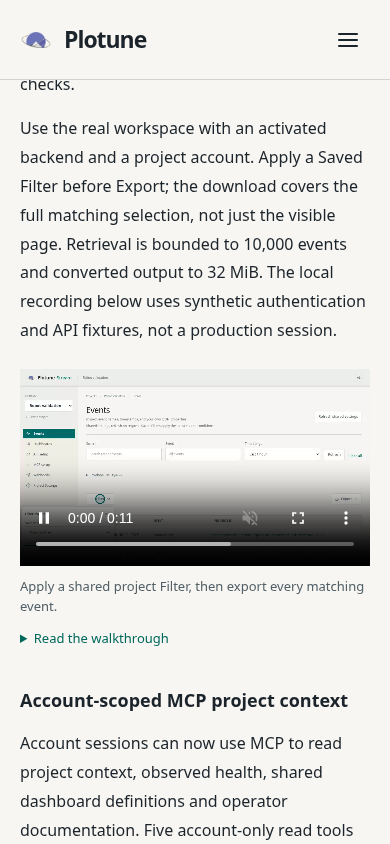
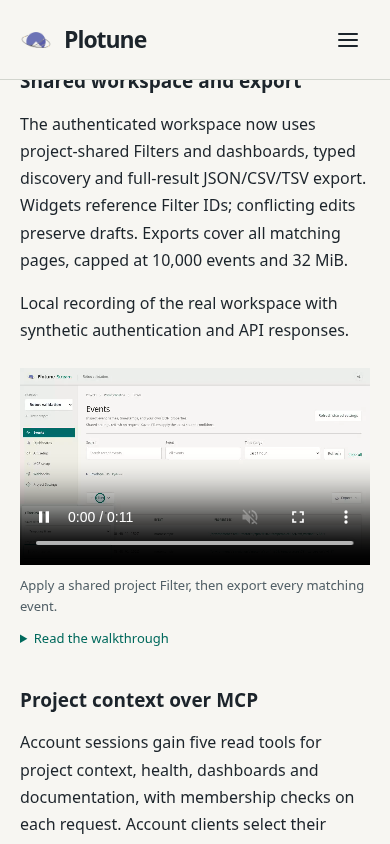
Refine weekly notes with concise highlights and visuals

diff --git a/src/changelog/Changelog.css b/src/changelog/Changelog.css
@@ -30,3 +30,26 @@
 @media(max-width:700px) { .changelog-page { padding-top:100px; } .changelog-layout { display:flex; flex-direction:column; gap:24px; } .changelog-sidebar { position:static; width:100%; } .changelog-sidebar nav { margin:0; padding:0; } .changelog-sidebar nav a { min-height:44px; } .changelog-sidebar span { display:inline; margin-left:12px; } .changelog-sidebar .changelog-brand { margin:0; } .changelog-contents { order:0; width:100%; font-size:12px; } .changelog-main { order:1; min-width:0; width:100%; } .changelog-head h1 { font-size:28px; } }
 
 .changelog-article h4 { font-size:18px; line-height:1.45; margin:26px 0 12px; font-weight:600; }
+
+/* Release-note rhythm: short entries, scannable highlights and useful visuals. */
+.changelog-article { line-height:1.7; }
+.changelog-article h2 { border-top:1px solid var(--line); padding-top:26px; margin-top:34px; }
+.changelog-article h3 { font-size:19px; line-height:1.4; margin:26px 0 10px; font-weight:600; scroll-margin-top:110px; }
+.changelog-article > p:first-child { font-size:13px; color:#526067; }
+.changelog-article #highlights { border:0; margin-top:24px; padding-top:0; font-size:22px; }
+.changelog-article #highlights + ul { padding-left:20px; }
+.changelog-article #highlights + ul li { margin:10px 0; }
+.changelog-article #highlights + ul a { font-weight:600; }
+.changelog-diagram { border:1px solid var(--line); background:#eff2ec; padding:22px; margin:24px 0; }
+.changelog-diagram .changelog-diagram-title { margin:0 0 20px; font-size:15px; font-weight:600; }
+.changelog-diagram-flow { display:grid; grid-template-columns:120px 24px minmax(0,1fr); gap:14px; align-items:center; }
+.changelog-diagram-source { border:1px solid #8aa59a; border-top:3px solid var(--teal); padding:18px 12px; background:var(--paper); font-size:14px; text-align:center; }
+.changelog-diagram-arrow { text-align:center; color:#00695c; font-size:22px; }
+.changelog-diagram-flow ul { list-style:none; padding:0; margin:0; display:grid; gap:12px; }
+.changelog-diagram-flow li { background:var(--paper); border-left:2px solid #8aa59a; padding:12px 16px; line-height:1.5; }
+.changelog-diagram-flow strong,.changelog-diagram-flow span,.changelog-diagram-flow small { display:block; }
+.changelog-diagram-flow strong { font-size:13px; }
+.changelog-diagram-flow li span { color:#00695c; font-size:14px; margin:4px 0; }
+.changelog-diagram-flow small { color:#526067; font-size:12px; }
+.changelog-diagram figcaption { color:#526067; font-size:12px; line-height:1.6; margin-top:16px; }
+@media(max-width:700px) { .changelog-diagram { padding:16px; } .changelog-diagram-flow { grid-template-columns:1fr; gap:8px; } .changelog-diagram-source { padding:12px; } .changelog-diagram-arrow { transform:rotate(90deg); } .changelog-diagram-flow ul { gap:10px; } }

diff --git a/src/changelog/Changelog.jsx b/src/changelog/Changelog.jsx
@@ -1,9 +1,10 @@
-import React, {useEffect, useState} from 'react';
+import React, {useEffect, useMemo, useState} from 'react';
 import {Link, useParams} from 'react-router-dom';
 import {Helmet} from 'react-helmet-async';
 import Seo from '../components/Seo';
 import {editions} from './catalog';
 import ChangelogMedia from './ChangelogMedia';
+import ChangelogDiagram from './ChangelogDiagram';
 import './Changelog.css';
 
 export const weekLabel = date=>new Date(`${date}T12:00:00Z`).toLocaleDateString('en-GB',{day:'numeric',month:'long',year:'numeric',timeZone:'UTC'});
@@ -17,14 +18,18 @@ export default function Changelog() {
     if (edition) Promise.resolve().then(()=>edition.load()).then(m=>{if(active)setContent(()=>m.default);}).catch(()=>{if(active)setError(true);});
     return ()=>{active=false;};
   },[edition,attempt]);
-  const components = {
+  const components = useMemo(()=>({
     h2:({children,...props})=><h2 id={headingId(children)} {...props}>{children}</h2>,
+    h3:({children,...props})=><h3 id={headingId(children)} {...props}>{children}</h3>,
+    h4:({children,...props})=><h4 id={headingId(children)} {...props}>{children}</h4>,
     p:({children,...props})=>{
+      const diagram=typeof children==='string' && /^:::diagram ([a-z0-9-]+)$/.exec(children);
+      if(diagram)return <ChangelogDiagram id={diagram[1]}/>;
       const match=typeof children==='string' && /^:::media ([a-z0-9-]+)$/.exec(children);
       const media=match && edition?.media.find(m=>m.id===match[1]);
       return media ? <ChangelogMedia media={media}/> : <p {...props}>{children}</p>;
     },
-  };
+  }),[edition]);
   const title = edition?.title || (slug ? 'Edition not found' : 'Changelog');
   return <main className="changelog-page design-container">
     <Seo title={`${title} | Plotune`} description={edition?.summary || 'Technical release notes for Plotune Nexus, Cloud and Stream.'} path={slug && edition ? `/changelog/${slug}` : '/changelog'} />

diff --git a/src/changelog/Changelog.test.jsx b/src/changelog/Changelog.test.jsx
@@ -19,3 +19,19 @@ test('technical sections have contents anchors and reviewed media render in cont
  expect(figure.nextElementSibling.textContent).toBe('Describe the next step.');
  expect(container.textContent).not.toContain(':::media');
 });
+
+test('feature anchors and a reviewed static diagram remain readable without video',async()=>{
+ mockLoad.mockResolvedValue({default:({components})=>{const H=components.h3,P=components.p;return <><H>Compatible release downloads</H><P>{':::diagram release-formats'}</P></>;}});
+ await render();expect(container.querySelector('h3').id).toBe('compatible-release-downloads');
+ const diagram=container.querySelector('.changelog-diagram');expect(diagram).toBeTruthy();
+ expect(diagram.querySelectorAll('li')).toHaveLength(2);
+ expect(diagram.textContent).toContain('Compatibility images');
+ expect(document.getElementById(diagram.getAttribute('aria-labelledby'))).toBeTruthy();
+ expect(diagram.querySelector('video')).toBeNull();
+});
+
+test('rerendering navigation preserves inline media nodes',async()=>{
+ mockLoad.mockResolvedValue({default:({components})=>{const P=components.p;return <P>{':::media selection'}</P>;}});
+ await render();const figure=container.querySelector('figure');
+ await render();expect(container.querySelector('figure')).toBe(figure);
+});

diff --git a/src/changelog/ChangelogDiagram.jsx b/src/changelog/ChangelogDiagram.jsx
@@ -1,0 +1,19 @@
+import React, {useId} from 'react';
+import diagrams from './diagrams.json';
+
+export default function ChangelogDiagram({id}) {
+  const label=useId();
+  const diagram=diagrams[id];
+  if(!diagram)return null;
+  return <figure className="changelog-diagram" aria-labelledby={label}>
+    <p id={label} className="changelog-diagram-title">{diagram.title}</p>
+    <div className="changelog-diagram-flow">
+      <div className="changelog-diagram-source">{diagram.source}</div>
+      <span className="changelog-diagram-arrow" aria-hidden="true">→</span>
+      <ul>{diagram.branches.map(branch=><li key={branch.title}>
+        <strong>{branch.title}</strong><span>{branch.detail}</span><small>{branch.outcome}</small>
+      </li>)}</ul>
+    </div>
+    <figcaption>{diagram.caption}</figcaption>
+  </figure>;
+}

diff --git a/docs/changelog-qa/README.md b/docs/changelog-qa/README.md
@@ -9,14 +9,14 @@ per-PR include/omit ledger remain private, ignored scratch data during generatio
 | Product | Public selection | Media decision |
 | --- | --- | --- |
 | Nexus | Managed agents and runtime reliability; actionable connection errors; note/conversation formatting; OAuth renewal; complete updates and recovery | Text: describe changed behavior, trust and compatibility precisely. No unrelated footage. |
-| Cloud | Compatible complete-release negotiation for old and new Nexus updaters | Text: publishing order and transport compatibility are clearer without a staged UI. |
+| Cloud | Compatible complete-release negotiation for old and new Nexus updaters | Static diagram: the complete-release and compatibility-image paths, with the required publishing order in the entry. |
 | Stream | Authenticated workspace and shared resources; account MCP context; OAuth consent; bounded aggregation/jobs | One recording: actual shared selection and complete export in the real local workspace. Other changes stay text. |
 
 Omissions: rental/purchase flow, minor brand-translation polish, two planning-only
 changes and internal artifact-verification diagnostics. Companion PRs and runtime
 follow-up fixes are combined rather than presented as separate announcements.
 
-The title is **Plotune updates — 12–18 October 2026**. Each product section says
+The title is **Plotune updates — 12–18 October 2026**. One scope note says
 **Merged this week**: merged code is not evidence of deployment. No production
 activation, measured billing savings or shipped release version is invented.
 
@@ -44,3 +44,16 @@ autoplay and offscreen pause, reduced-motion manual playback, keyboard-accessibl
 written steps and horizontal overflow. Desktop/mobile screenshots, the poster
 and sampled action/result frames were inspected. Complete-clip editorial review
 remains an owner step before publication.
+
+## VS Code reference refinement
+
+Reference: https://code.visualstudio.com/updates/v1_142. The edition now starts
+with three linked highlights, uses product H2s and feature H3s, and keeps each
+update to one compact paragraph. The main Markdown body fell from 871 to 415
+words while retaining all ten selected updates and material limits. One merged
+scope note replaces repeated status headings. A reviewed HTML/CSS diagram explains
+Cloud/Nexus release compatibility; the real-workspace recording is retained.
+The static diagram reflows into a single column on mobile and adds no media
+download. Unknown diagram IDs are rejected, and future updates are capped at
+65 words per description/usage pair. This follows the reference’s reading pattern
+within Plotune’s visual language; no reference assets or copy were reused.

diff --git a/docs/changelog.md b/docs/changelog.md
@@ -124,3 +124,21 @@ Checks: `npm run changelog:test`, `npm test -- --watchAll=false --runInBand`,
 `npm run build`, `node scripts/changelog/browser-qa.cjs` against a local production
 preview, and `changelog:check` for final media. The staged guard is specifically for
 weekly content-only PRs, not this initial feature implementation.
+
+## Reading structure
+
+Follow the linked-highlights and feature-heading pattern in the VS Code 1.142
+release notes (https://code.visualstudio.com/updates/v1_142), within Plotune’s style.
+Use three or four short highlights linked to actual feature anchors. Each update
+should be one compact paragraph, usually 30–50 words total for description and
+usage. Keep material trust, compatibility and activation constraints; remove
+repeated explanation and generic instructions. State merged scope once per edition.
+Use product H2s and linked feature H3s. `highlights` in the private selection is an
+optional array of `{title, description}`; titles must match selected changes.
+
+Reviewed static diagrams in `src/changelog/diagrams.json` may explain a selected
+technical change without another video. Set the change’s `diagramId` and a
+`mediaDecision` of diagram, then the generator emits `:::diagram <id>`. These are
+accessible HTML/CSS figures that reflow on mobile, with no download or autoplay.
+Unknown or duplicate diagram IDs are rejected. New diagram content requires code
+review and must show actual changed behavior, not invented product UI.
